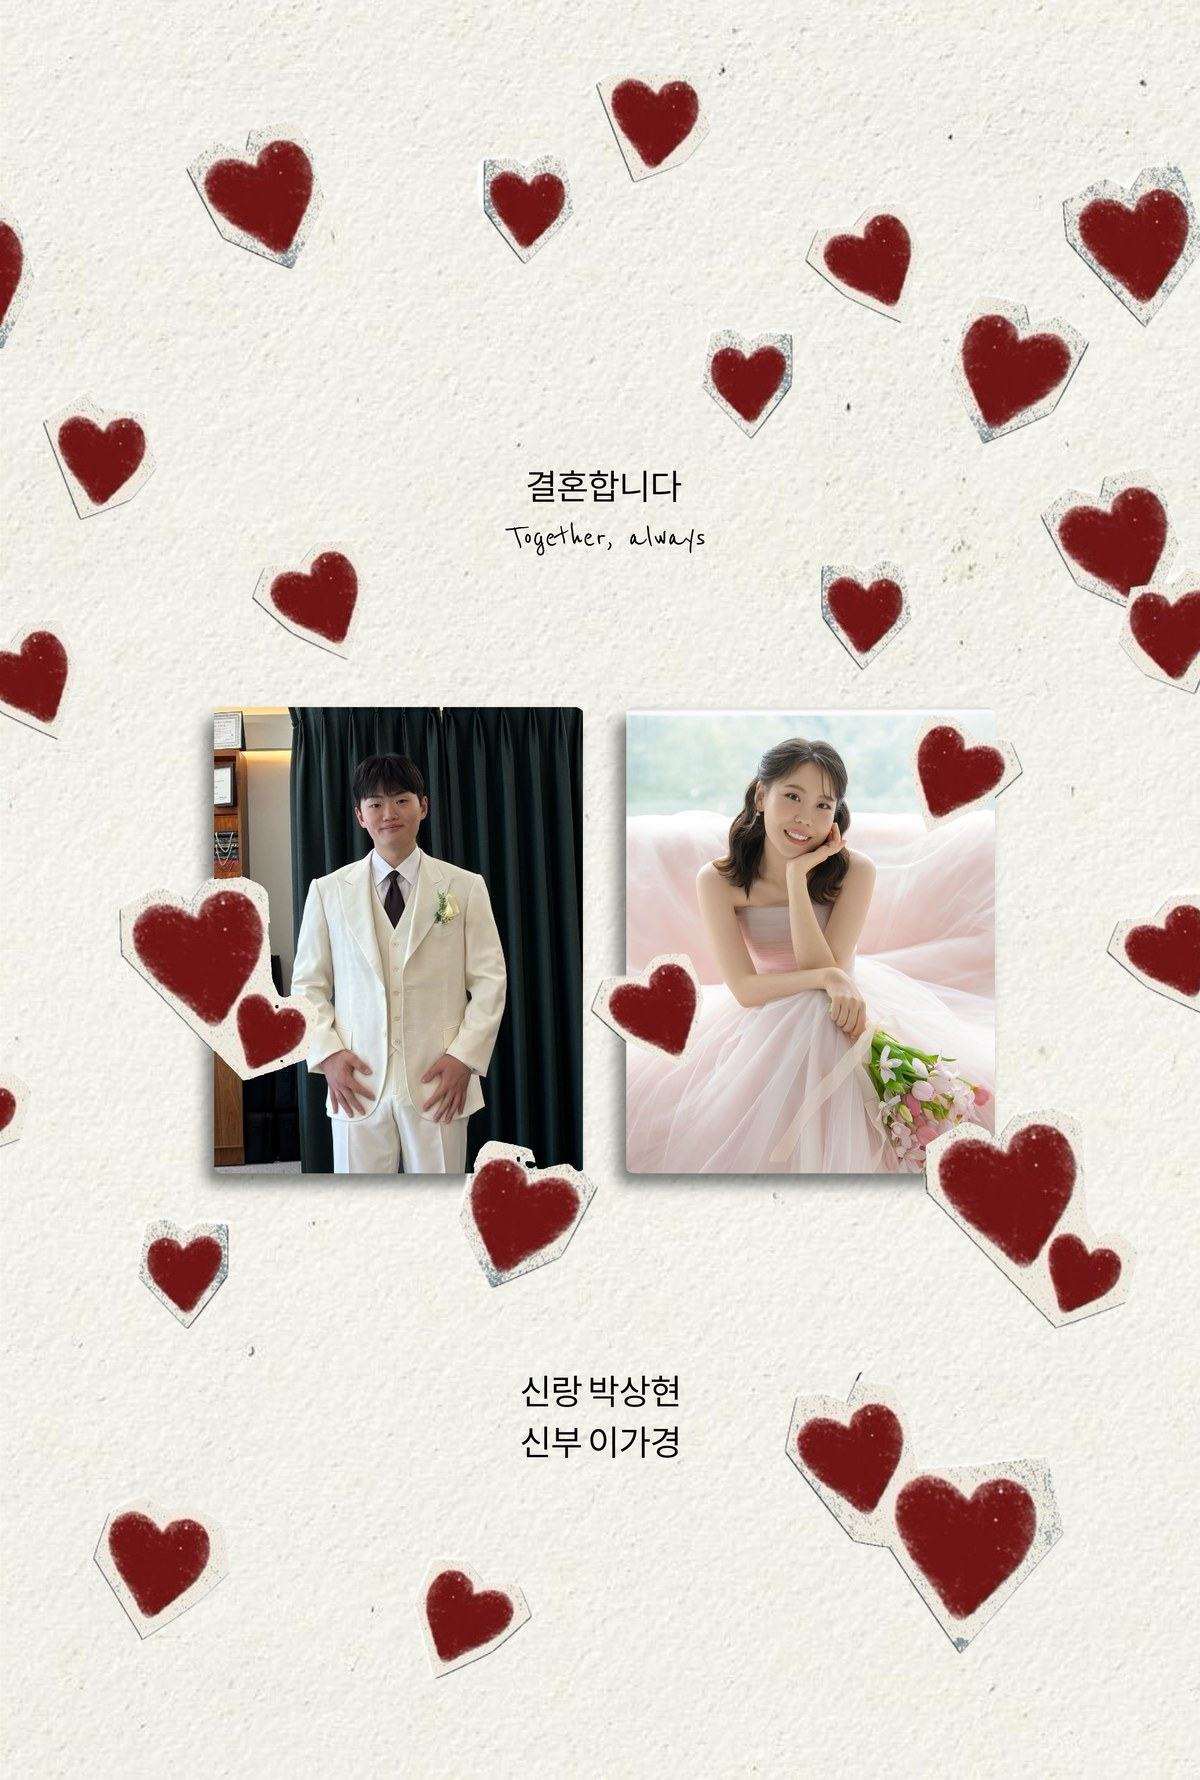
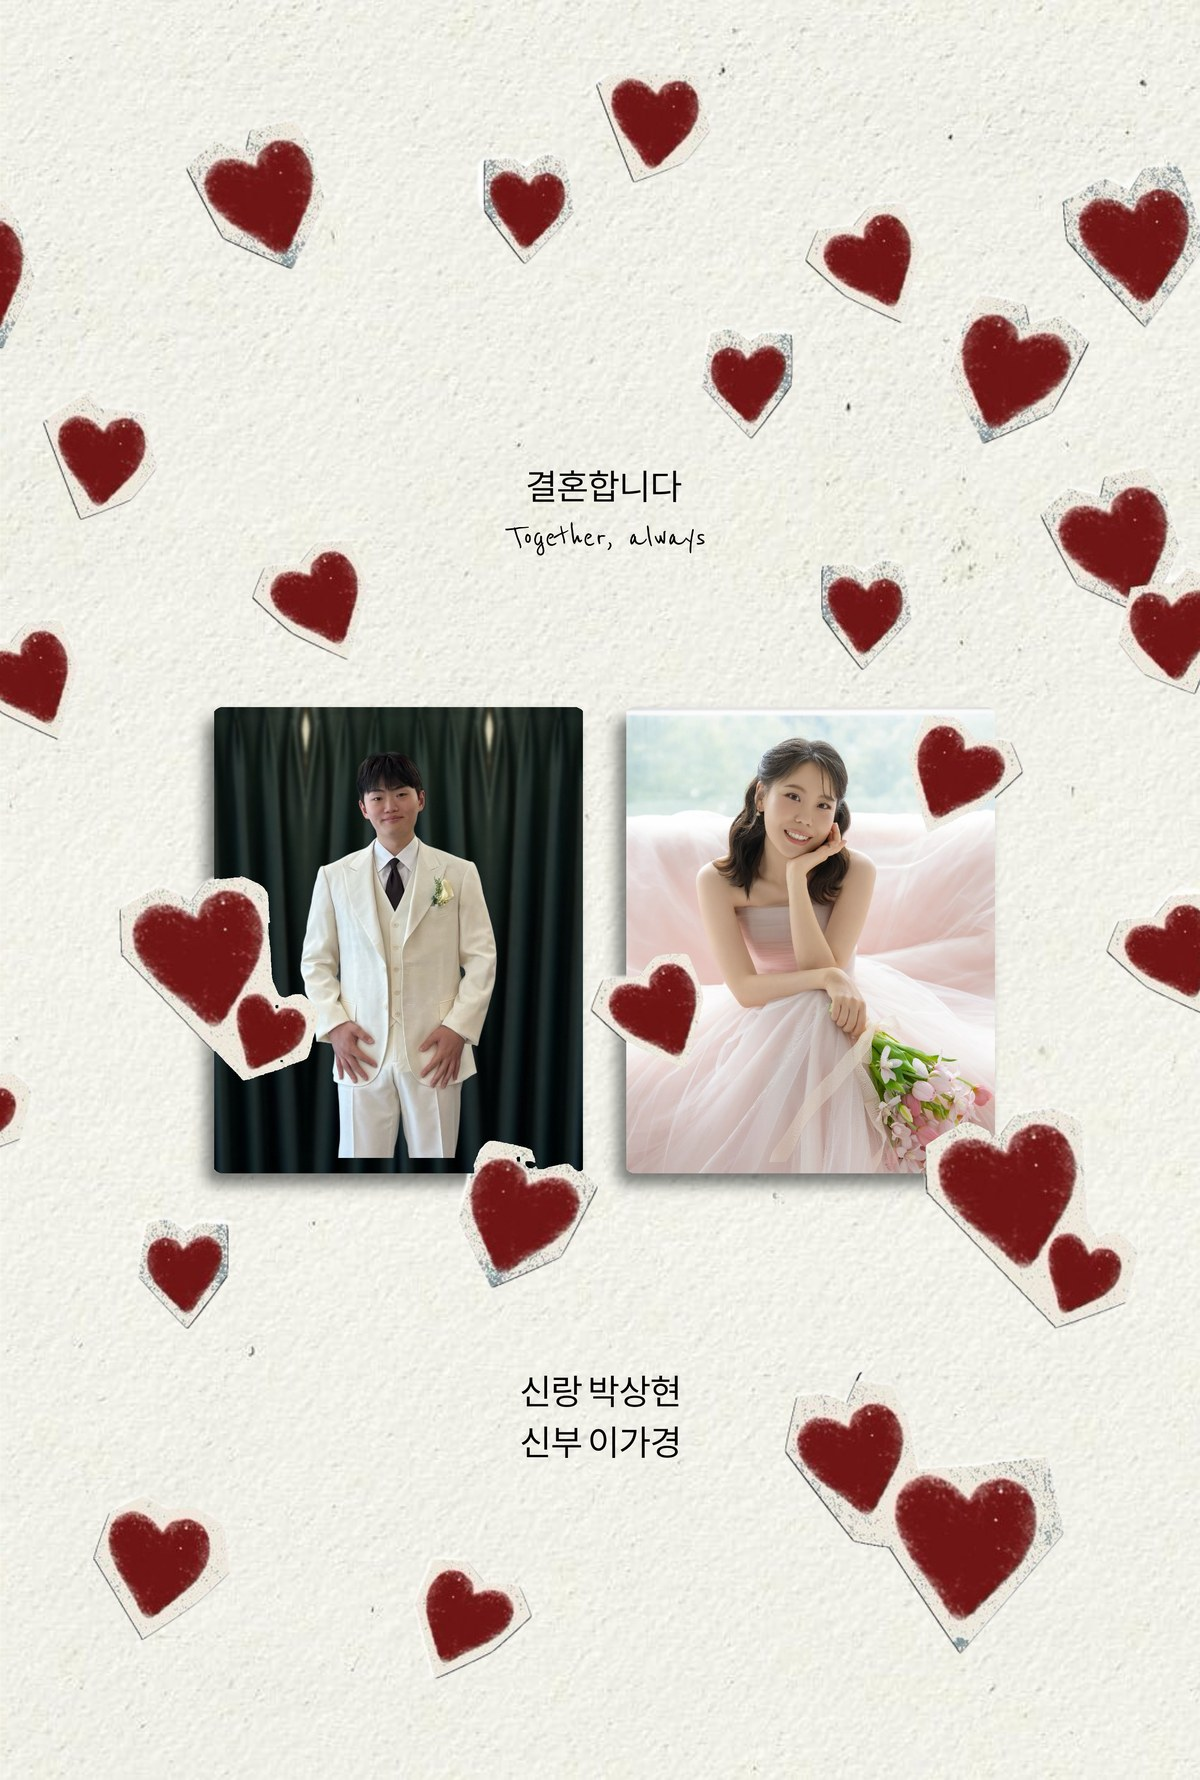
Fill groom cover background with seamless green curtain

Changed region(s): [[0.1542, 0.3708, 0.4933, 0.6798]]

diff --git a/index.html b/index.html
@@ -7,7 +7,7 @@
   <title>박상현 ♥ 이가경 결혼합니다</title>
   <meta property="og:title" content="박상현 ♥ 이가경 결혼합니다">
   <meta property="og:description" content="2027년 2월 13일 토요일 낮 12시 10분">
-  <meta property="og:image" content="img/cover.jpg?v=29">
+  <meta property="og:image" content="img/cover.jpg?v=30">
   <link rel="preconnect" href="https://fonts.googleapis.com">
   <link rel="preconnect" href="https://fonts.gstatic.com" crossorigin>
   <link
@@ -29,7 +29,7 @@
 
     <!-- 1. 인트로 -->
     <section class="intro" id="intro">
-      <img src="img/cover.jpg?v=29" alt="박상현 이가경 결혼합니다">
+      <img src="img/cover.jpg?v=30" alt="박상현 이가경 결혼합니다">
     </section>
 
     <!-- 2. Our Wedding day -->
